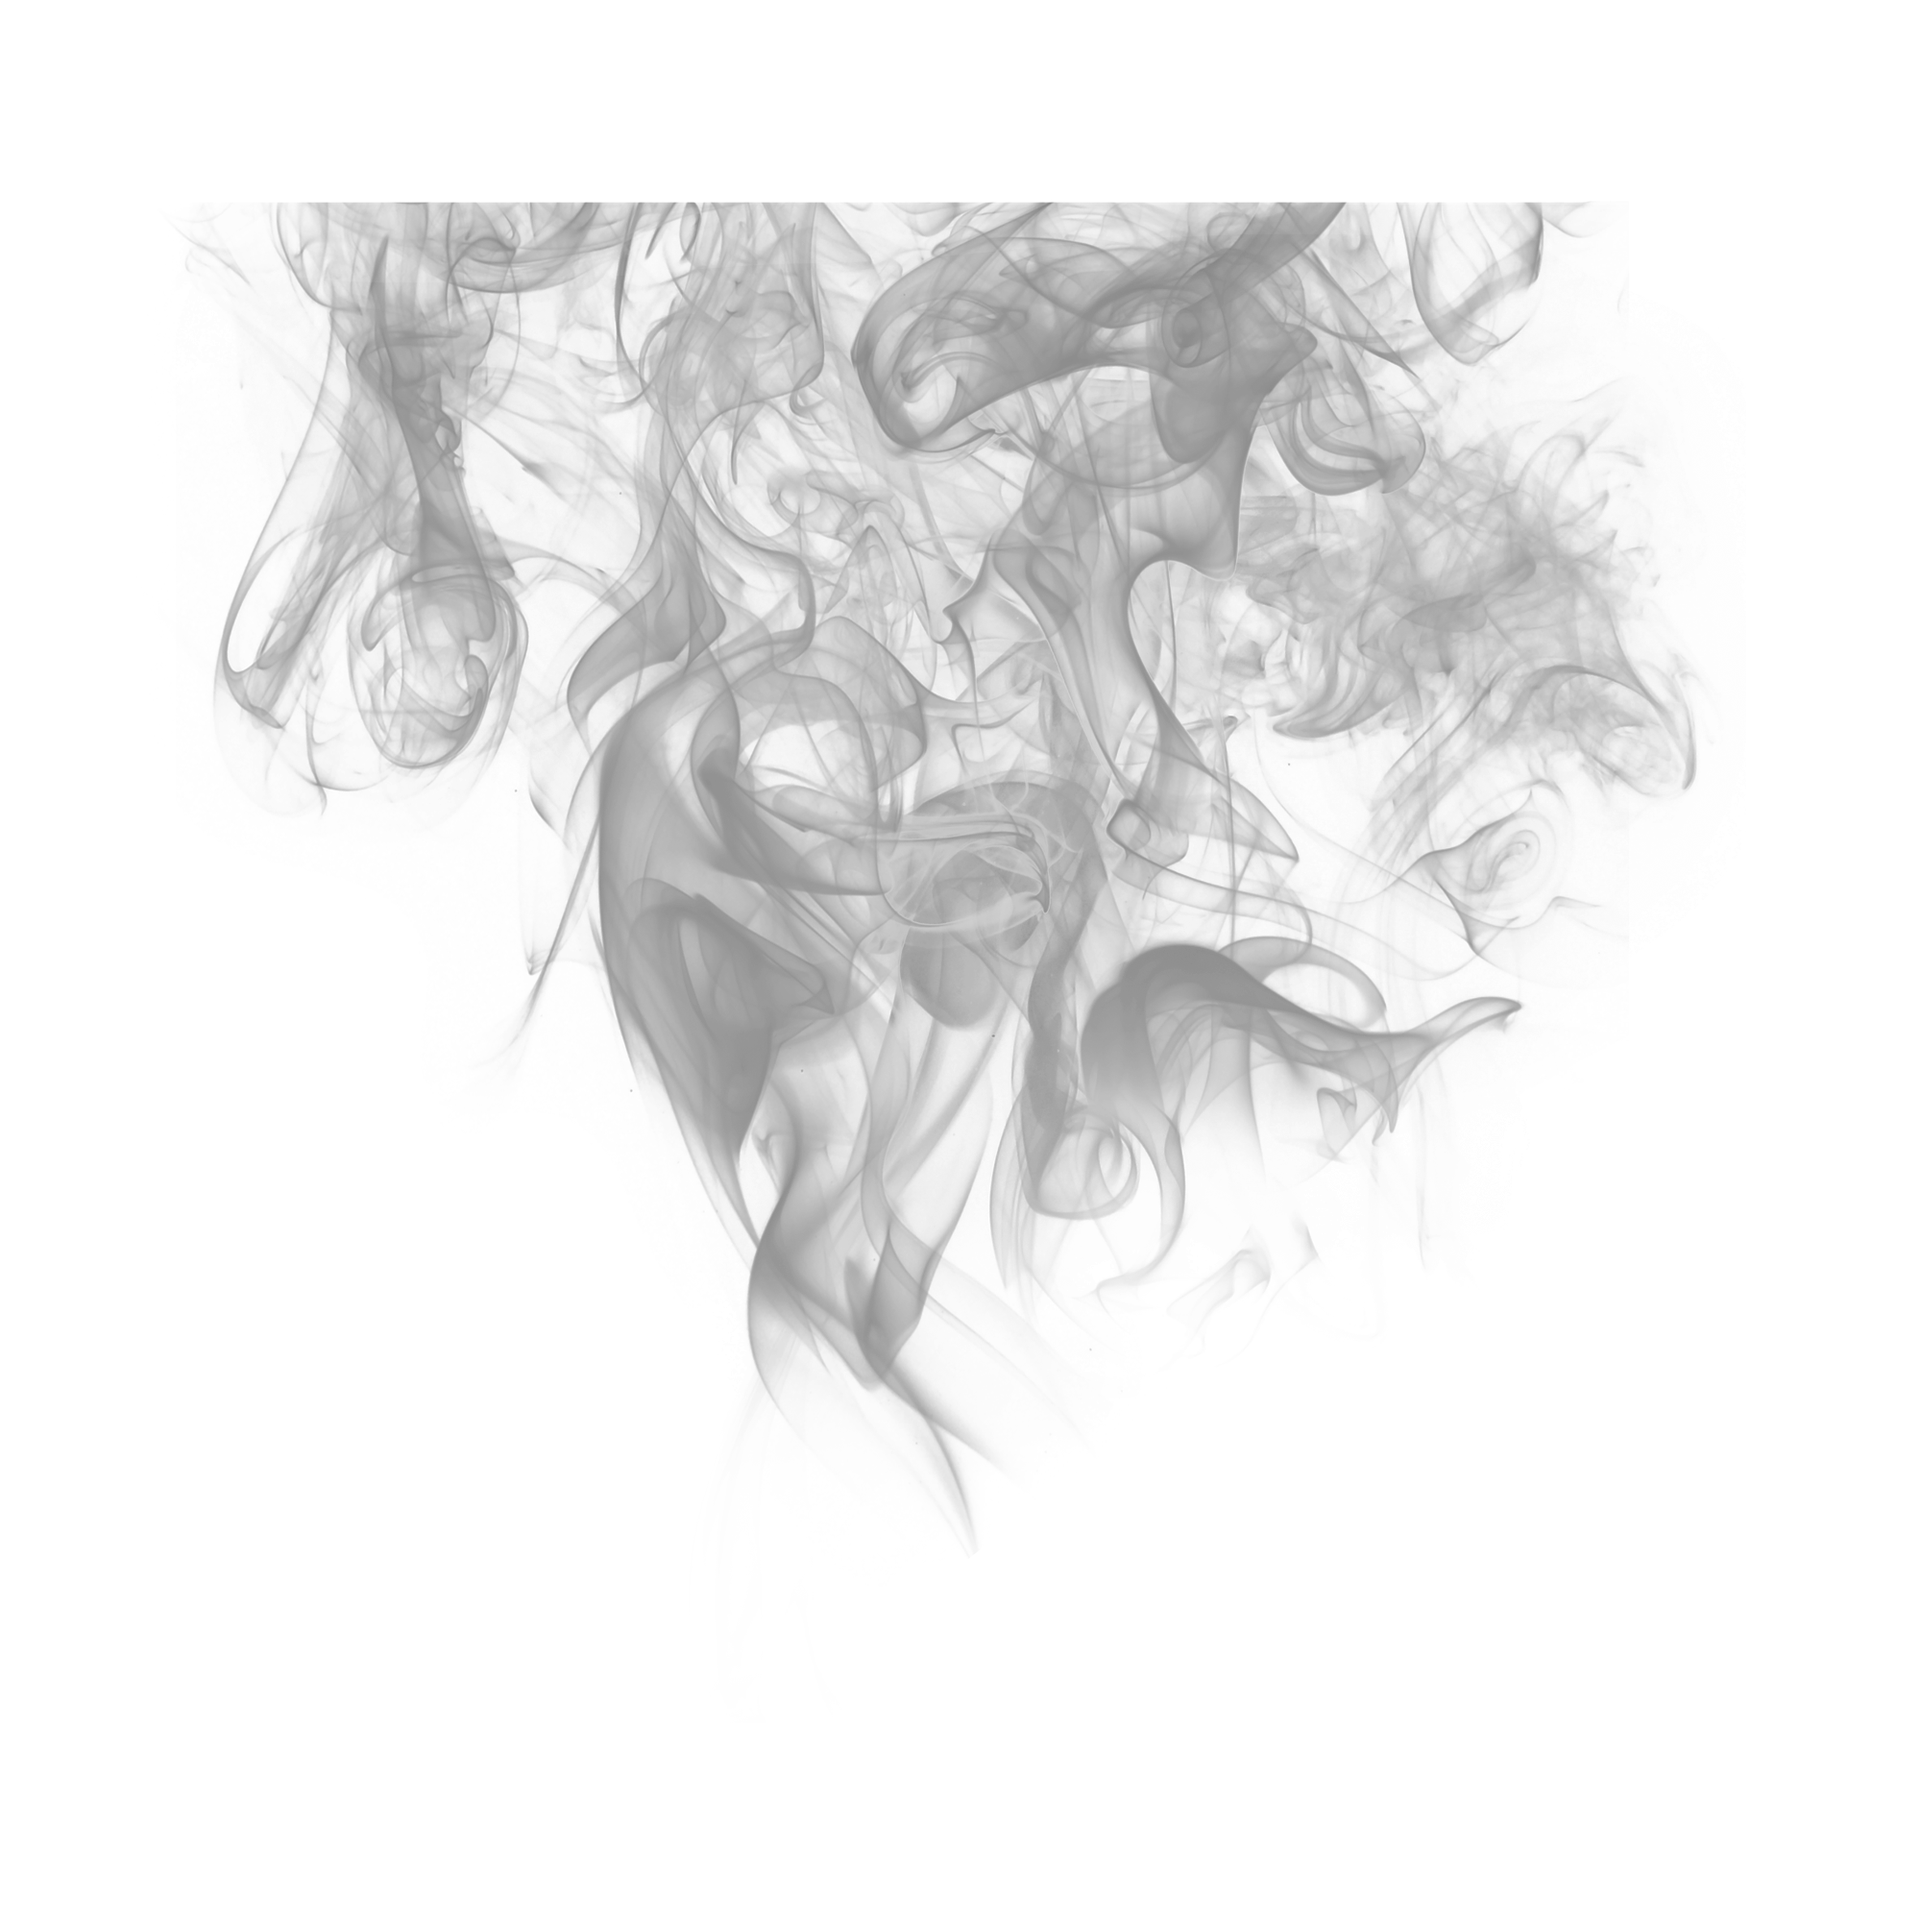
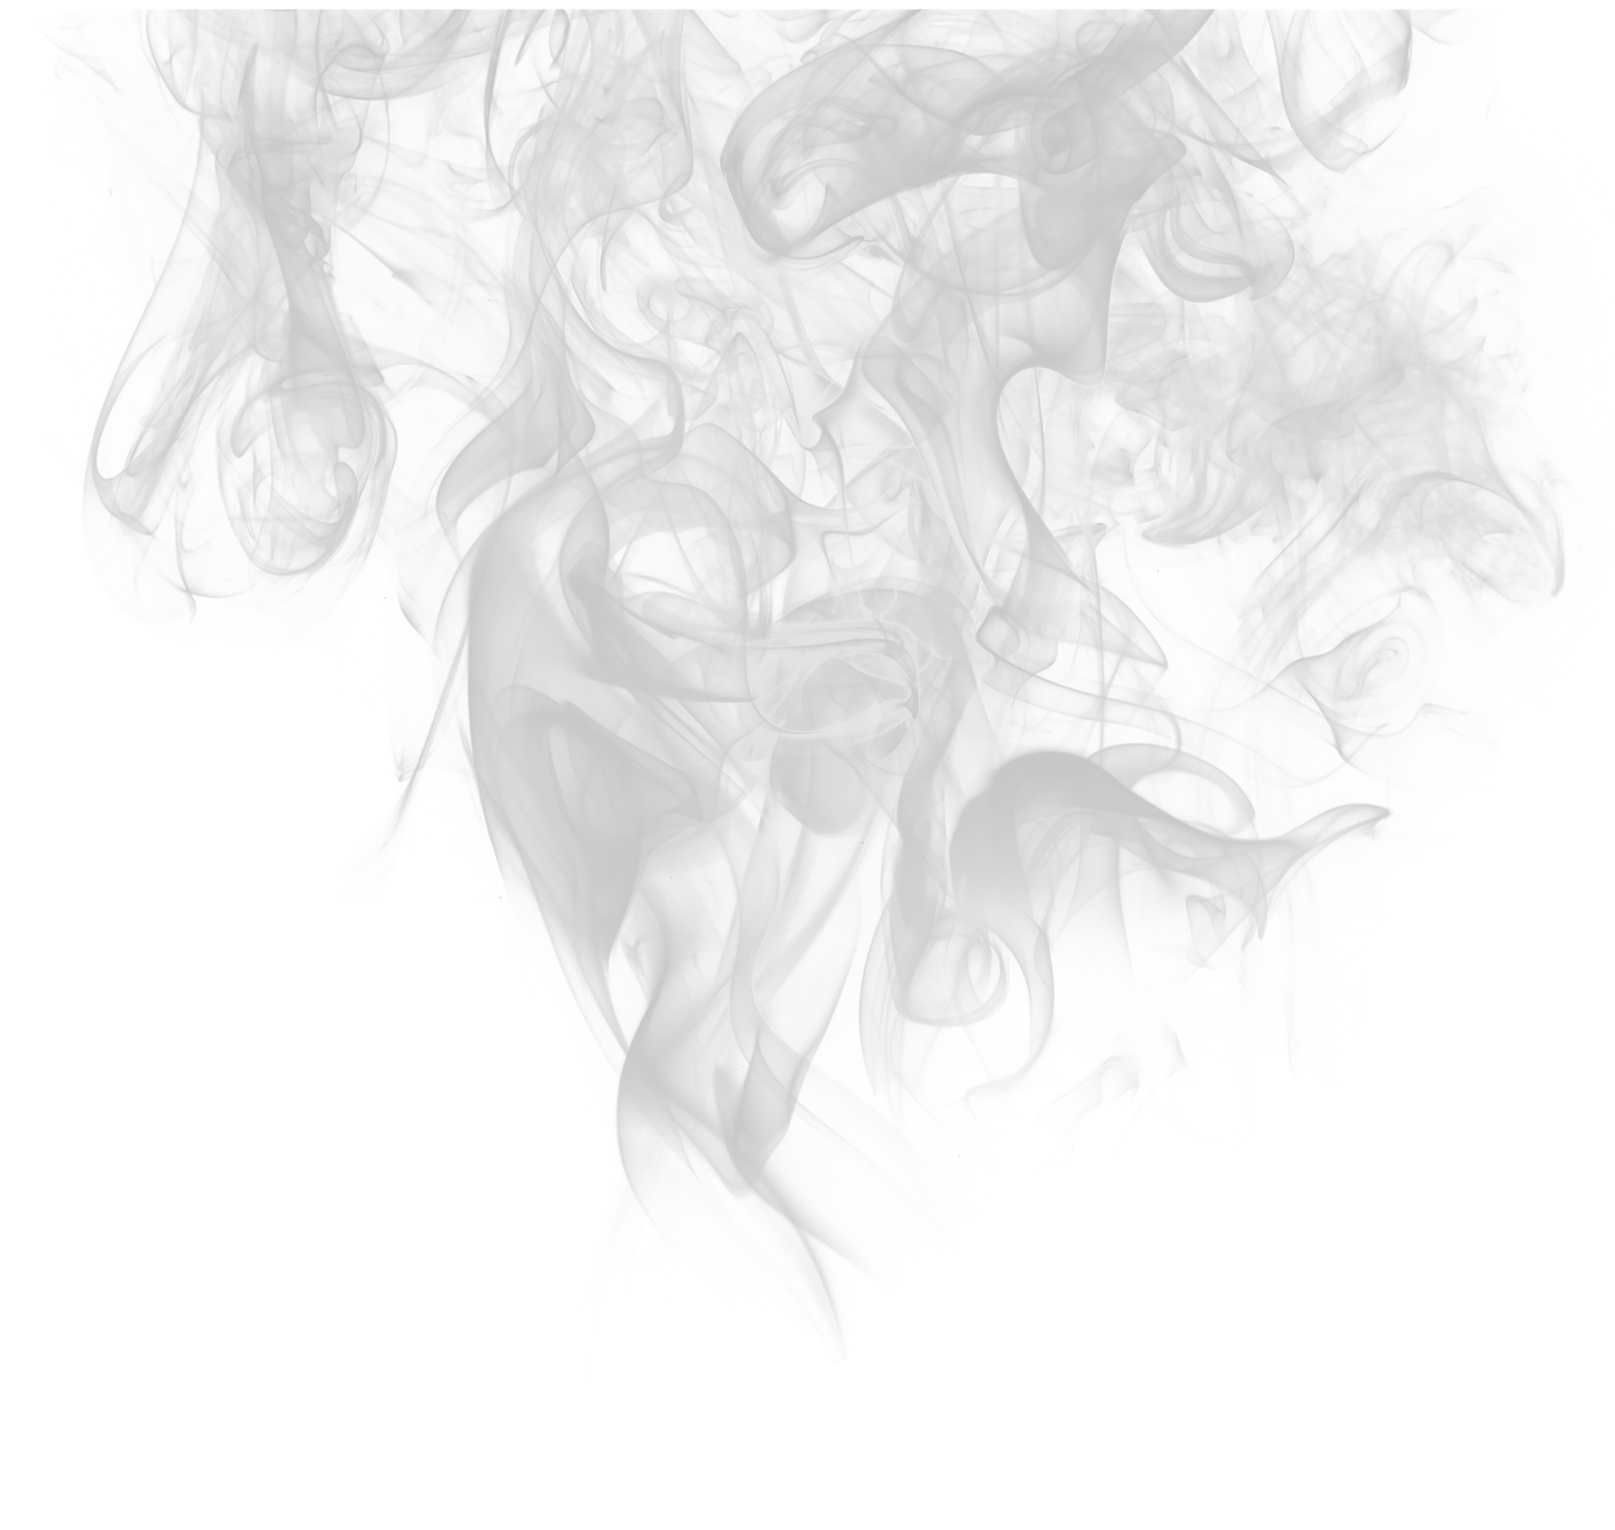
gallery section started

Changed region(s): [[0.0309, 0.0, 0.9584, 0.7997], [0.8038, 0.4614, 0.8347, 0.4922], [0.4946, 0.7997, 0.5256, 0.8305]]

diff --git a/charnobyl.html b/charnobyl.html
@@ -54,7 +54,7 @@
                     <li><a href="#plan">PLAN TURY</a></li>
                     <li><a href="#zasady">ZASADY </a></li>
                     <li><a href="#cena">CENA</a></li>
-                    <li><a href="#">GALERIA</a></li>
+                    <li><a href="#galeria">GALERIA</a></li>
                 </ul>
             </div>
         </div>
@@ -326,7 +326,7 @@
                 <div class="price__value">
                     KOSZT WYCIECZKI: <strong>235</strong> Euro / os.
                 </div>
-                <div class="price__title">Cena obejmuje: 
+                <div class="price__title">Cena obejmuje:
                 </div>
                 <div class="price__item">
                     <div class="price__img1"></div>
@@ -335,16 +335,33 @@
                 </div>
                 <div class="price__item">
                     <div class="price__img2"></div>
-                    <div class="price__text">Cena nie jest wliczona w cenę i<br> 
+                    <div class="price__text">Cena nie jest wliczona w cenę i<br>
                         dodatkowo płatna: <br>
                         <b> ubezpieczenie zdrowotne</b>
-                        </div>
+                    </div>
                 </div>
                 <div class="price__logo"></div>
-                <div class="price__descr">Organizator: <br>  
-                    ( agencja podróży ekstremalnych "wędrowcy") 
-                    </div>
+                <div class="price__descr">Organizator: <br>
+                    ( agencja podróży ekstremalnych "wędrowcy")
+                </div>
                 <div class="price__name">WANDERERS</div>
+            </div>
+        </div>
+    </section>
+    <section class="gallery" id="galleria">
+        <div class="gallery__container">
+            <div class="gallery__title">GALERIA</div>
+            <div class="gallery__slider">
+                <div id="slider4">
+                    <div class="slide" id="mps1"></div>
+                    <div class="slide" id="mps2"></div>
+                    <div class="slide" id="mps3"></div>
+                    <div class="slide" id="mps4"></div>
+                    <div class="slide" id="mps5"></div>
+                </div>
+                <div class="about__range">
+                    <input type="range" id="range" min="1" value="1" step="1" />
+                </div>
             </div>
         </div>
     </section>
@@ -563,6 +580,7 @@
     <script src="//cdn.jsdelivr.net/gh/kenwheeler/slick@1.9.0/slick/slick.min.js"></script>
     <script src="js/jquery.fancybox.min.js"></script>
     <script src="js/slider3.js"></script>
+    <script src="js/slider4.js"></script>
 </body>
 
 </html>

diff --git a/css/style.css b/css/style.css
@@ -935,6 +935,16 @@ input[type=range]::-moz-range-thumb {
   padding-bottom: 30px;
 }
 
+.gallery {
+  height: 900px;
+  background: url("../img/smoke.png");
+  background-repeat: no-repeat;
+  background-size: cover;
+  background-position: top;
+  width: 100%;
+  height: 900px;
+}
+
 .footer {
   height: 186px;
   background: rgba(0, 0, 0, 0.8);
@@ -1246,6 +1256,71 @@ input[type=range]::-moz-range-thumb {
   width: 75px;
   height: 75px;
   margin: 0 auto;
+}
+
+.slide {
+  line-height: 136px;
+  text-align: center;
+  font-size: 60px;
+  margin: 0 5px;
+}
+
+.slick-slide {
+  width: 631px;
+}
+
+.slick-list {
+  margin: 0 -5px;
+}
+
+#mps1 {
+  background: url("../img/wheel.jpg");
+  background-repeat: no-repeat;
+  background-size: cover;
+  background-position: top;
+  width: 207px;
+  height: 136px;
+  margin-right: 15px;
+}
+
+#mps2 {
+  background: url("../img/sea.jpg");
+  background-repeat: no-repeat;
+  background-size: cover;
+  background-position: top;
+  width: 207px;
+  height: 136px;
+  margin-right: 15px;
+}
+
+#mps3 {
+  background: url("../img/sarco.jpg");
+  background-repeat: no-repeat;
+  background-size: cover;
+  background-position: top;
+  width: 207px;
+  height: 136px;
+  margin-right: 15px;
+}
+
+#mps4 {
+  background: url("../img/sea2.jpg");
+  background-repeat: no-repeat;
+  background-size: cover;
+  background-position: top;
+  width: 207px;
+  height: 136px;
+  margin-right: 15px;
+}
+
+#mps5 {
+  background: url("../img/pripyat.jpg");
+  background-repeat: no-repeat;
+  background-size: cover;
+  background-position: top;
+  width: 207px;
+  height: 136px;
+  margin-right: 15px;
 }
 
 #modal-shedule,

diff --git a/sass/sliders/_slider4.sass b/sass/sliders/_slider4.sass
@@ -1,0 +1,26 @@
+@import '../vars/_mixins'
+.slide
+    line-height: 136px
+    text-align: center
+    font-size: 60px
+    margin: 0 5px
+.slick-slide
+    width: 631px
+.slick-list
+    margin: 0 -5px
+
+#mps1
+    @include img('../img/wheel.jpg', 207px, 136px, cover)
+    margin-right: 15px
+#mps2
+    @include img('../img/sea.jpg', 207px, 136px, cover)
+    margin-right: 15px
+#mps3
+    @include img('../img/sarco.jpg', 207px, 136px, cover)
+    margin-right: 15px
+#mps4
+    @include img('../img/sea2.jpg', 207px, 136px, cover)
+    margin-right: 15px
+#mps5
+    @include img('../img/pripyat.jpg', 207px, 136px, cover)   
+    margin-right: 15px             

diff --git a/js/slider4.js b/js/slider4.js
@@ -1,0 +1,19 @@
+$('#slider4').on('init reInit',function(event,slick){
+    var amount = slick.slideCount;
+    $('#range').attr('max',amount);
+  });
+  
+  $('#slider4').on('afterChange',function(e,slick,currentSlide){
+    $('#range').val(currentSlide+1);
+  });
+  
+  $('#range').on('input change',function(){
+    $('#slider4').slick('slickGoTo',this.value-1);
+  });
+  
+  $('#slider4').slick({
+    variableWidth: true,
+    slidesToShow:2,
+    arrows:false,
+    dots:false
+  });

diff --git a/sass/style.sass b/sass/style.sass
@@ -9,6 +9,7 @@
 @import 'components/_plan'
 @import 'components/_rules'
 @import 'components/_price'
+@import 'components/_gallery'
 @import 'components/_footer'
 //vars
 @import 'vars/_fonts'
@@ -17,5 +18,6 @@
 @import 'sliders/_slider1'
 @import 'sliders/_slider2' 
 @import 'sliders/_slider3'
+@import 'sliders/_slider4'
 //modals
 @import 'modals'    

diff --git a/sass/components/_gallery.sass b/sass/components/_gallery.sass
@@ -1,0 +1,5 @@
+@import '../vars/_fonts'
+@import '../vars/_mixins'
+.gallery
+    height: 900px
+    @include img('../img/smoke.png', 100%, 900px, cover)
